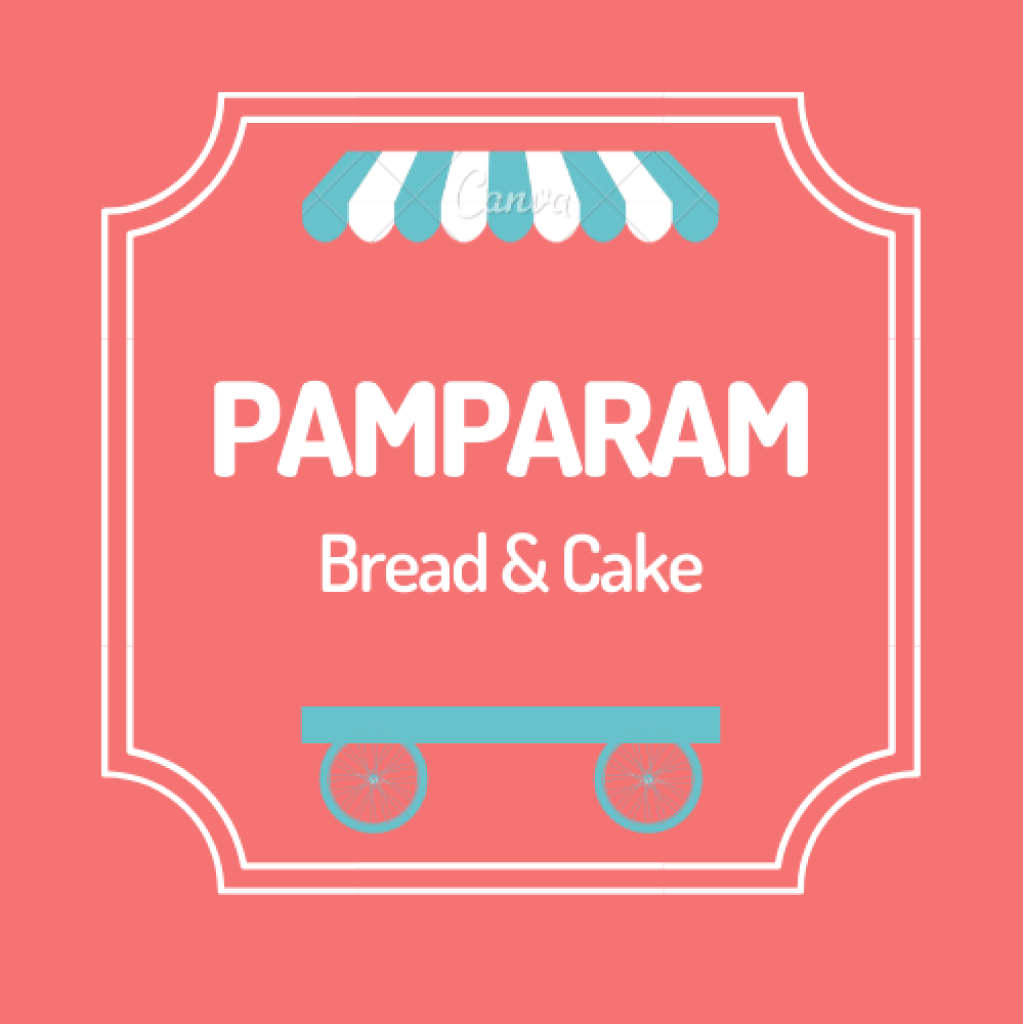
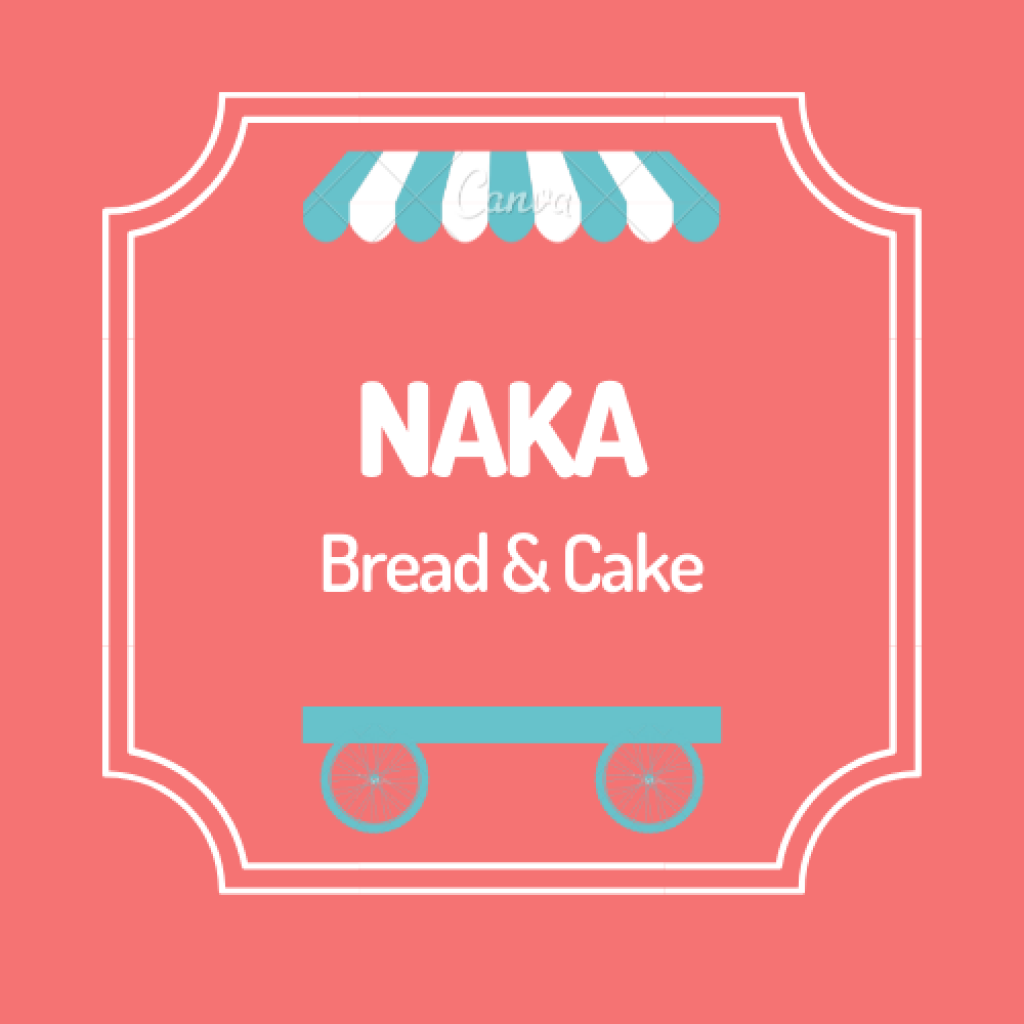
update and fix sistem

diff --git a/components/customer/OrderPage.jsx b/components/customer/OrderPage.jsx
@@ -22,16 +22,18 @@ const Order  = (props) => {
     .then(function(response) {
       return response.json()
     }).then((responseJson) => {
-      console.log(responseJson); 
-      setWhatsapp(responseJson.whatsapp);
-      setName(responseJson.name);
+      console.log(responseJson[0]); 
+      console.log(responseJson[0].whatsapp); 
+      setWhatsapp(responseJson[0].whatsapp);
+      setName(responseJson[0].name);
     }).catch(error => {
       console.error(error);
     });
 },[]);
 
 const initiateWhatsApp = () => {
- 
+  //console.log(whatsapp);
+ if(whatsapp){
   let url =
     'whatsapp://send?text=' + 
     "Halo, Saya ingin Pesan Kue ini , "+productName+
@@ -43,6 +45,9 @@ const initiateWhatsApp = () => {
     .catch(() => {
       alert('Make sure Whatsapp installed on your device');
     });
+  }else{
+    useEffect;
+  }
 };
     return (
       <ScrollView style={{ backgroundColor: "white" }}>
@@ -54,6 +59,7 @@ const initiateWhatsApp = () => {
             <Text style={styles.name}>{name}</Text>
           </View>
           <View style={styles.buttonWrapper}>
+  
             <TouchableOpacity style={styles.button} onPress={initiateWhatsApp}>
                 <View style={styles.row}>
                     <View style={{ alignItems: "center", justifyContent: "center" }}>
@@ -64,6 +70,7 @@ const initiateWhatsApp = () => {
               </View>
               </View>
             </TouchableOpacity>
+
         </View>
         </View>
       </ScrollView>

diff --git a/components/store/AddProduct.jsx b/components/store/AddProduct.jsx
@@ -13,6 +13,9 @@ const AddProduct = (props) => {
   const [expired, setExpired] = useState("");
   const [deskripsi, setDeskripsi] = useState("");
   const addproductpost = () => {
+     if(deskripsi == "" || productName== ""||price == ""||expired == ""||weight == ""||jenis == ""||status == ""){
+      Alert.alert('Ada field kosong');
+    }else{
     fetch("https://pamparampam.herokuapp.com/api/addproduct", {
       method: "POST",
       headers: {
@@ -46,6 +49,7 @@ const AddProduct = (props) => {
       .catch((error) => {
         console.error(error);
       });
+    }
   };
   return (
     <ScrollView style={{ backgroundColor: "white" }}>

diff --git a/components/store/EditProduct.jsx b/components/store/EditProduct.jsx
@@ -46,7 +46,10 @@ const EditProduct = (props) => {
   }, []);
 
   const editProduct = () => {
-    fetch("https://pamparampam.herokuapp.com/api/editproduct", {
+    if(deskripsi == "" || productName== ""||price == ""||expired == ""||weight == ""||jenis == ""||status == ""){
+      Alert.alert('Ada field kosong');
+    }else{
+      fetch("https://pamparampam.herokuapp.com/api/editproduct", {
       method: "POST",
       headers: {
         Accept: "application/json",
@@ -79,6 +82,7 @@ const EditProduct = (props) => {
       .catch((error) => {
         console.error(error);
       });
+    }
   };
 
   return (

diff --git a/splash/splash.jsx b/splash/splash.jsx
@@ -34,12 +34,12 @@ const Splash = ({navigation}) => {
                     props.navigation.navigate("HomeCustomer")
                   } 
         }
-        },4000)
+        },1000)
     },[navigation]);
     return (
         <View style={styles.container}>
             <TouchableOpacity style={styles.container} onPress={() => navigation.replace("Login")}>
-            <Text style={styles.text}>PAMPARAMPAM</Text>
+            <Text style={styles.text}>NAKA</Text>
             <Text style={styles.text1}>Aplikasi Pemesanan kue</Text>
         </TouchableOpacity>
         </View>

diff --git a/components/all/EditProfile.jsx b/components/all/EditProfile.jsx
@@ -41,6 +41,8 @@ const EditProfile = (props) => {
   const edituserpost =() => {
     if(password != confirm_password){
       Alert.alert('Password dan Re-password tidak sama');
+    }else if(password == ""){
+      Alert.alert('Password tidak boleh kosong');
     }else{
     fetch('https://pamparampam.herokuapp.com/api/edituser', {
         method: 'POST',

diff --git a/components/all/RegisterPage.jsx b/components/all/RegisterPage.jsx
@@ -14,6 +14,8 @@ const Register  = (props) => {
   const registerpost =() => {
     if(password != confirm_password){
       Alert.alert('Password dan Re-password tidak sama');
+    }else if(password == ""){
+      Alert.alert('Password tidak boleh kosong');
     }else{
     fetch('https://pamparampam.herokuapp.com/api/register', {
         method: 'POST',
